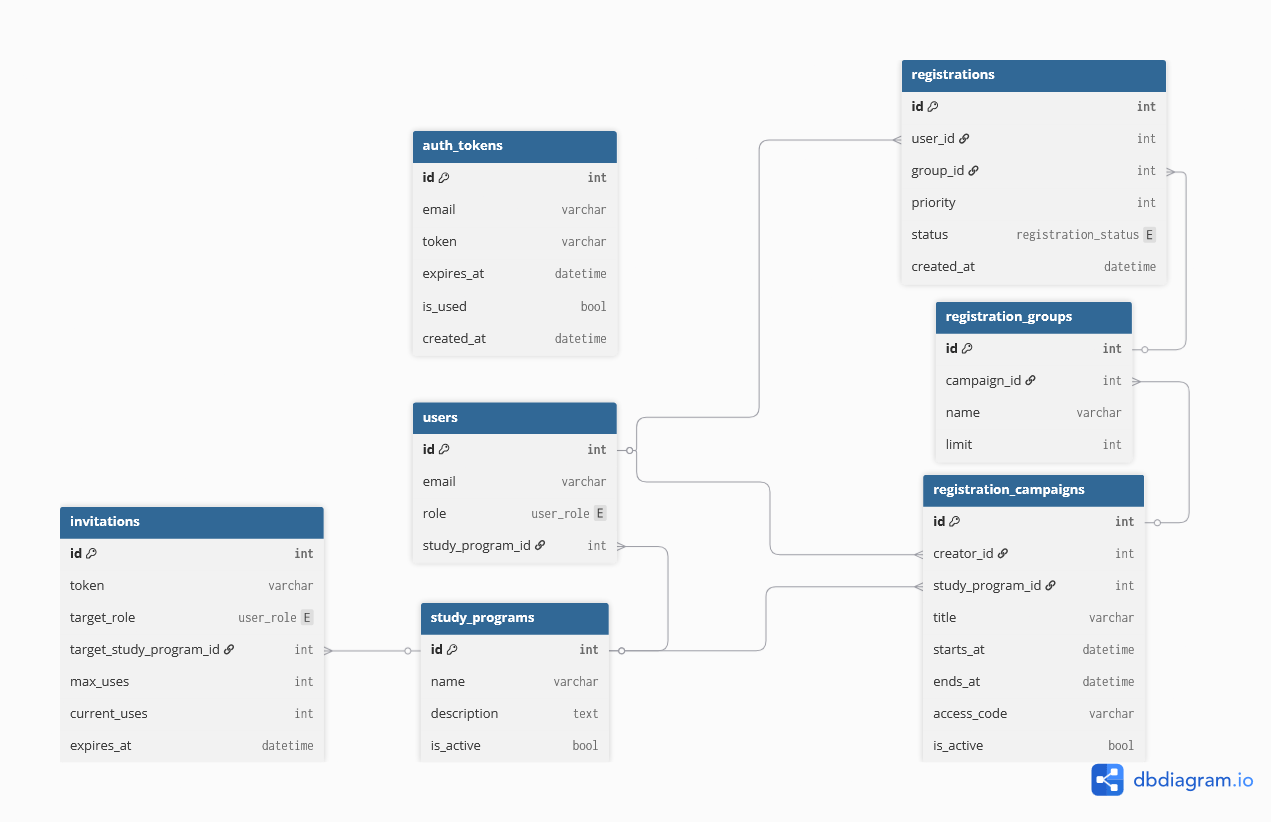
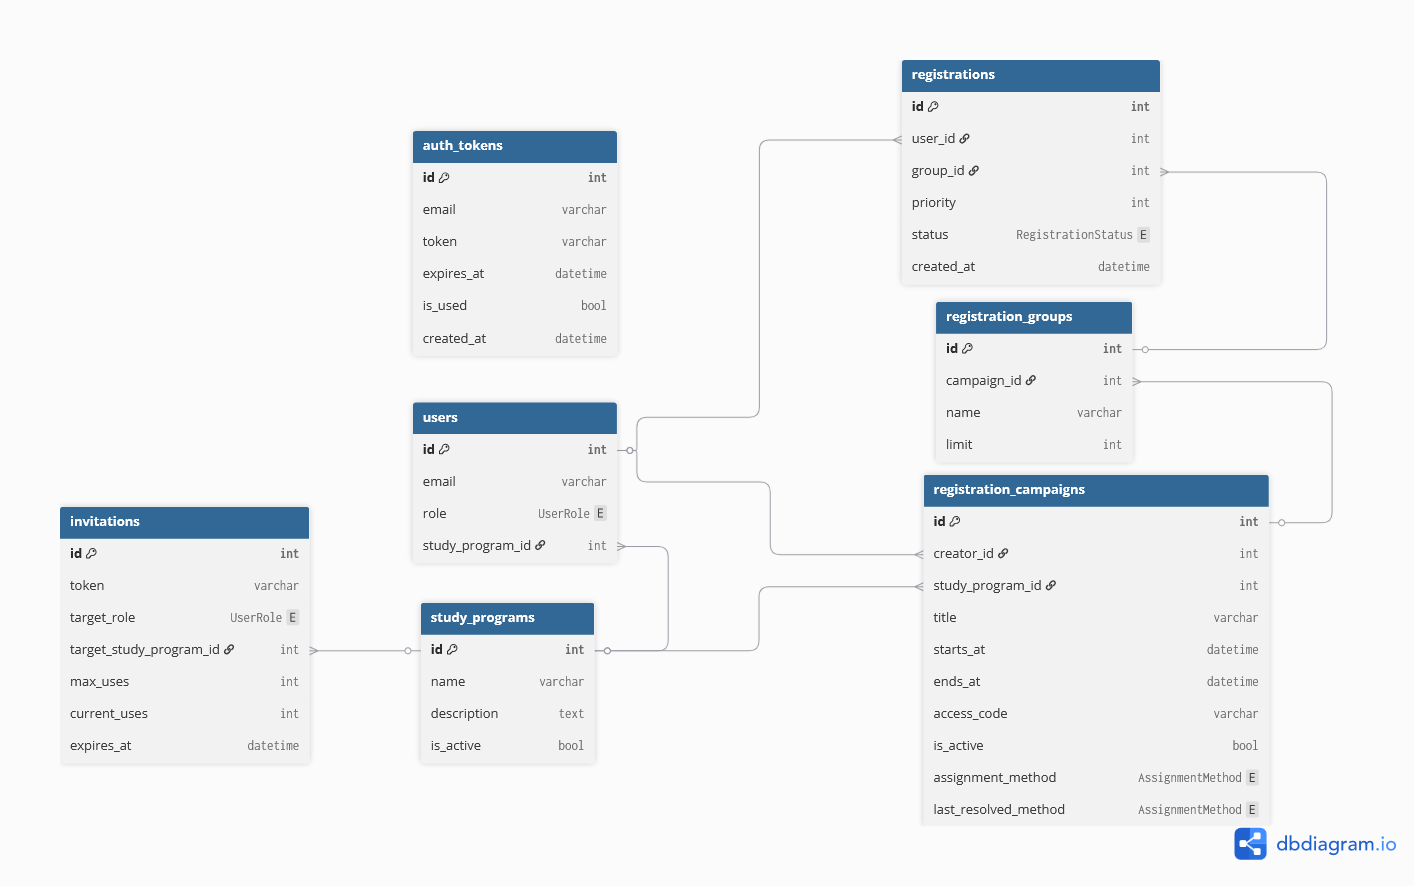
readme tweaks

diff --git a/README.md b/README.md
@@ -81,6 +81,7 @@ Detailed description of every endpoint is avaiable on localhost:8000/docs
 |**GET**|/student/available-campaigns|student|see what campaigns are there + popularity stats|
 |**POST**|/student/register|student|send your priorities for a campaign|
 |**GET**|/student/my-groups|student|shows ur assigned classes and ur priorities|
+|**POST**|/campaigns/{campaign_id}/resolve|admin|assigns students to groups according to the selected method|
 
 
 
